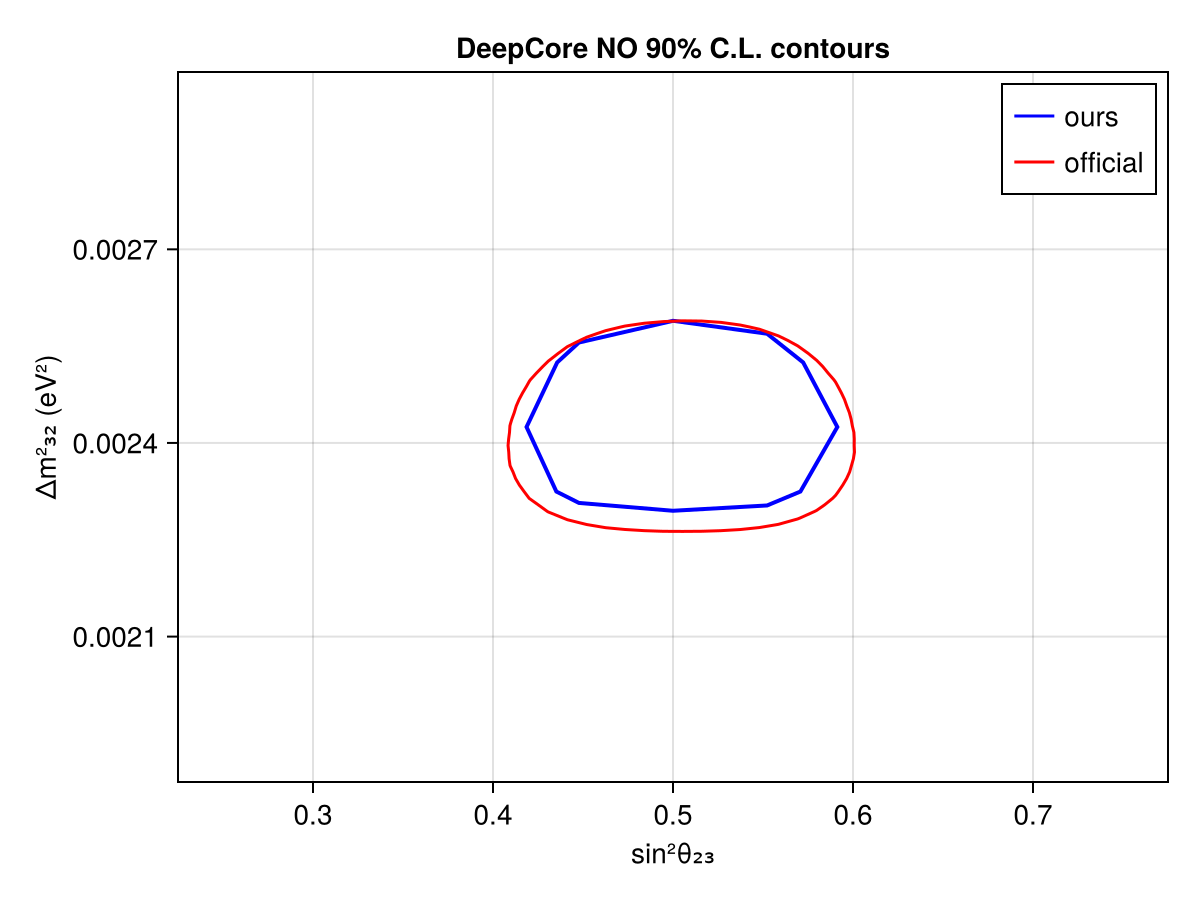
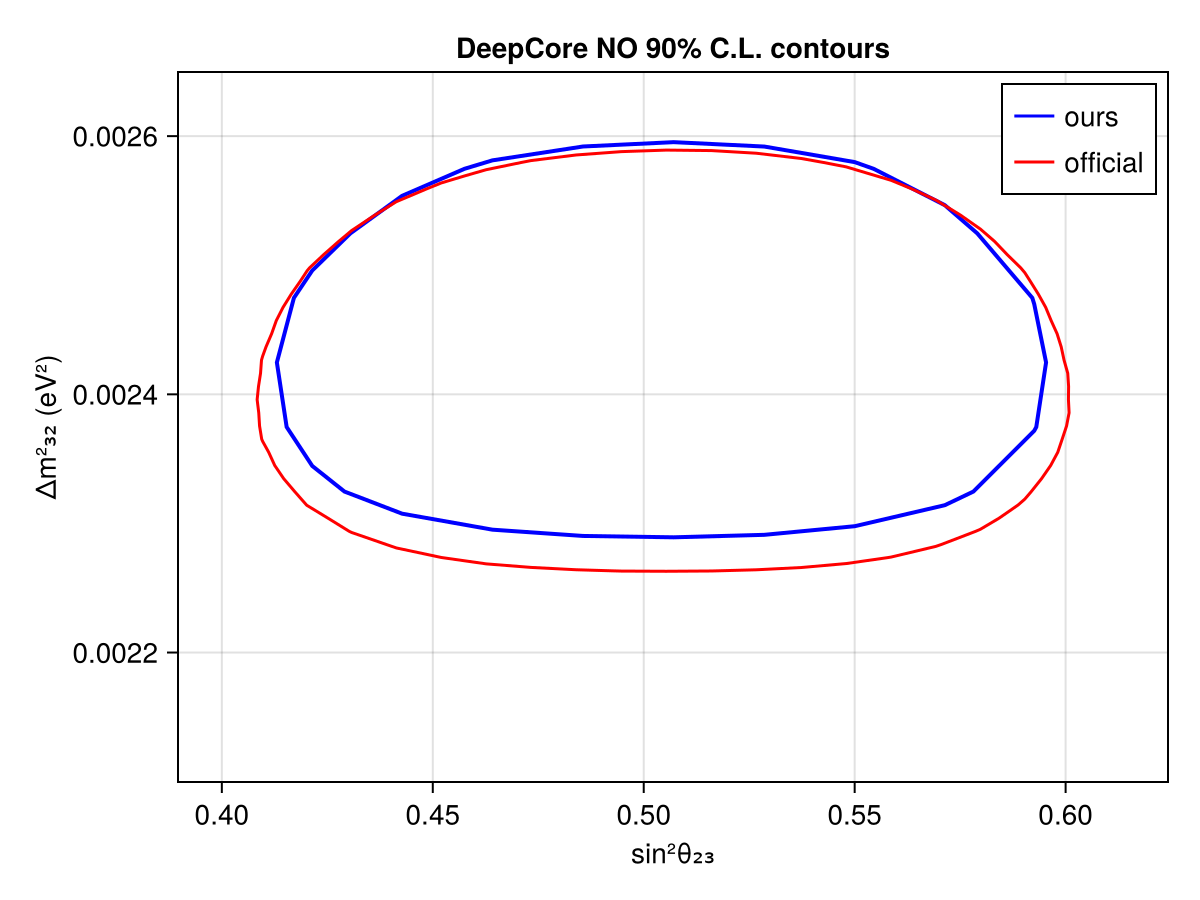
update iceube test

diff --git a/src/experiments/icecube/deepcore_9y_verification_sample/README.md b/src/experiments/icecube/deepcore_9y_verification_sample/README.md
@@ -9,14 +9,14 @@ IceCube Collaboration, 2025, "Replication Data for: Measurement of atmospheric n
 ![DataMC](test_output/datamc.png)
 ## Meta Information
 - **repo_clean**: false
-- **exec_time**: 13.23704195022583
+- **exec_time**: 1816.6649839878082
 - **username**: peller
 - **repo**: /mnt/c/Users/peller/work/Newtrinos
 - **cache_dir**: test
 - **hostname**: flippy
 - **params**: (atm_flux_delta_spectral_index = 0.0, atm_flux_nuenumu_sigma = 0.0, atm_flux_nunubar_sigma = 0.0, atm_flux_uphorizonzal_sigma = 0.0, deepcore_aeff_scale = 1.0, deepcore_atm_muon_scale = 1.0, deepcore_ice_absorption = 1.0, deepcore_ice_scattering = 1.0, deepcore_opt_eff_overall = 1.0, deepcore_rel_eff_p0 = 0.1, deepcore_rel_eff_p1 = -0.05, nc_norm = 1.0, nutau_cc_norm = 1.0, Δm²₂₁ = 7.53e-5, Δm²₃₁ = 0.0024752999999999997, δCP = 1.0, θ₁₂ = 0.5872523687443223, θ₁₃ = 0.1454258194533693, θ₂₃ = 0.8556288707523761)
-- **date**: 2025-10-07 14:04:54
+- **date**: 2025-10-08 09:44:41
 - **task**: profile
 - **vars_to_scan**: OrderedDict{Any, Any}(:θ₂₃ => 11, :Δm²₃₁ => 11)
-- **commit_hash**: ffc1be9f3759066798762fbbabca1552da7e0fe5
-- **priors**: (atm_flux_delta_spectral_index = Truncated(Normal{Float64}(μ=0.0, σ=0.1); lower=-0.3, upper=0.3), atm_flux_nuenumu_sigma = Truncated(Normal{Float64}(μ=0.0, σ=1.0); lower=-3.0, upper=3.0), atm_flux_nunubar_sigma = Truncated(Normal{Float64}(μ=0.0, σ=1.0); lower=-3.0, upper=3.0), atm_flux_uphorizonzal_sigma = Truncated(Normal{Float64}(μ=0.0, σ=1.0); lower=-3.0, upper=3.0), deepcore_aeff_scale = Uniform{Float64}(a=0.5, b=2.0), deepcore_atm_muon_scale = Uniform{Float64}(a=0.0, b=2.0), deepcore_ice_absorption = Uniform{Float64}(a=0.8, b=1.2), deepcore_ice_scattering = Uniform{Float64}(a=0.8, b=1.2), deepcore_opt_eff_overall = Truncated(Normal{Float64}(μ=1.0, σ=0.1); lower=0.8, upper=1.2), deepcore_rel_eff_p0 = Uniform{Float64}(a=-1.0, b=0.5), deepcore_rel_eff_p1 = Uniform{Float64}(a=-0.15, b=0.05), nc_norm = Truncated(Normal{Float64}(μ=1.0, σ=0.2); lower=0.4, upper=1.6), nutau_cc_norm = 1.0, Δm²₂₁ = 7.53e-5, Δm²₃₁ = Uniform{Float64}(a=0.002, b=0.003), δCP = 1.0, θ₁₂ = 0.5872523687443223, θ₁₃ = Truncated(Normal{Float64}(μ=0.156, σ=0.008); lower=0.13, upper=0.18), θ₂₃ = Uniform{Float64}(a=0.5235987755982988, b=1.0471975511965976))
+- **commit_hash**: 8aec97a5393edf1fac6a1c6408ba7dbab72b4960
+- **priors**: (atm_flux_delta_spectral_index = Truncated(Normal{Float64}(μ=0.0, σ=0.1); lower=-0.3, upper=0.3), atm_flux_nuenumu_sigma = Truncated(Normal{Float64}(μ=0.0, σ=1.0); lower=-3.0, upper=3.0), atm_flux_nunubar_sigma = Truncated(Normal{Float64}(μ=0.0, σ=1.0); lower=-3.0, upper=3.0), atm_flux_uphorizonzal_sigma = Truncated(Normal{Float64}(μ=0.0, σ=1.0); lower=-3.0, upper=3.0), deepcore_aeff_scale = Uniform{Float64}(a=0.5, b=2.0), deepcore_atm_muon_scale = Uniform{Float64}(a=0.0, b=2.0), deepcore_ice_absorption = Uniform{Float64}(a=0.8, b=1.2), deepcore_ice_scattering = Uniform{Float64}(a=0.8, b=1.2), deepcore_opt_eff_overall = Truncated(Normal{Float64}(μ=1.0, σ=0.1); lower=0.8, upper=1.2), deepcore_rel_eff_p0 = Uniform{Float64}(a=-1.0, b=0.5), deepcore_rel_eff_p1 = Uniform{Float64}(a=-0.15, b=0.05), nc_norm = Truncated(Normal{Float64}(μ=1.0, σ=0.2); lower=0.4, upper=1.6), nutau_cc_norm = 1.0, Δm²₂₁ = 7.53e-5, Δm²₃₁ = Uniform{Float64}(a=0.0022, b=0.0027), δCP = 1.0, θ₁₂ = 0.5872523687443223, θ₁₃ = Truncated(Normal{Float64}(μ=0.156, σ=0.008); lower=0.13, upper=0.18), θ₂₃ = Uniform{Float64}(a=0.685, b=0.9))
